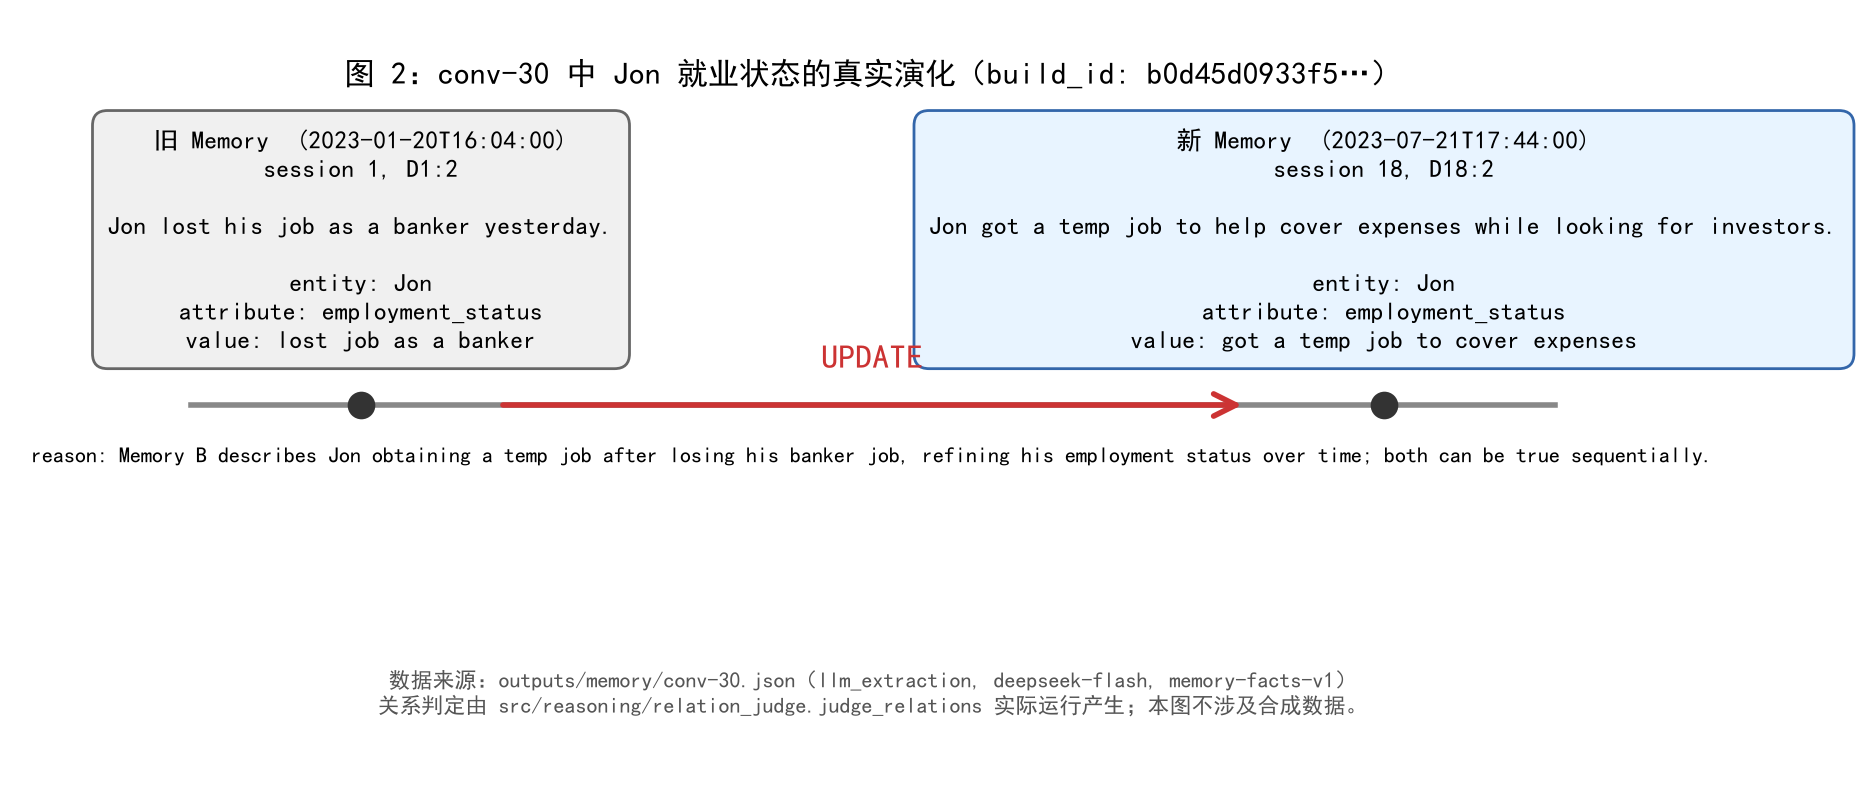
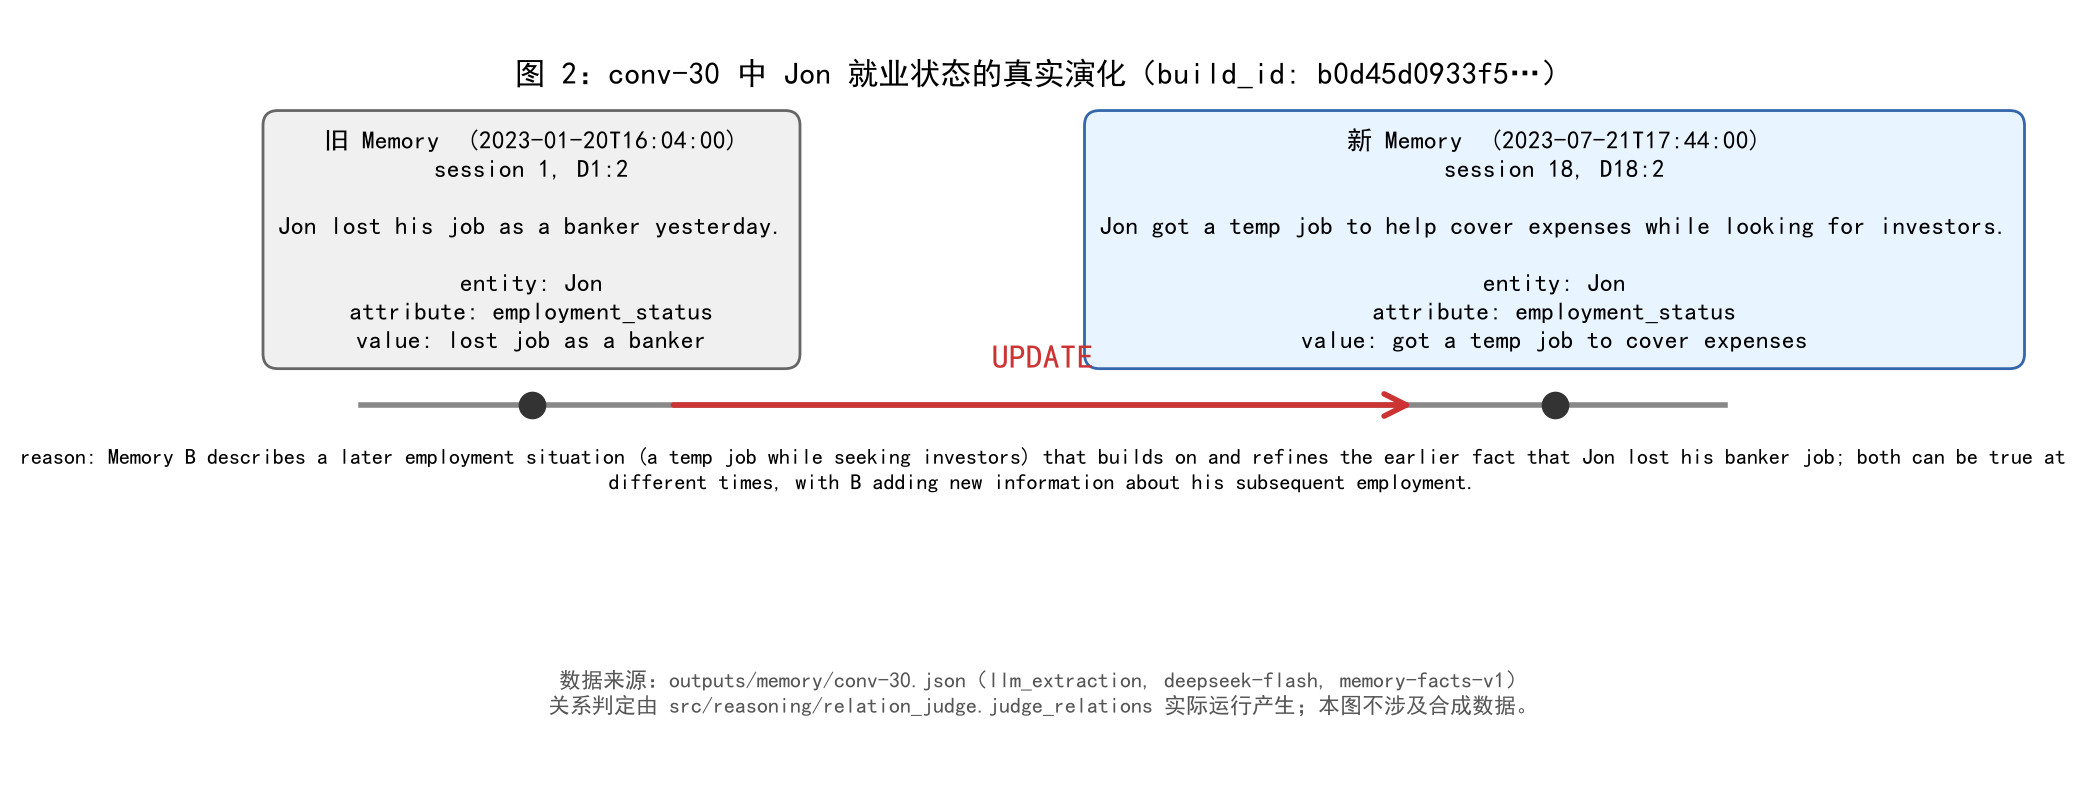
完成图二相对路径修改

diff --git a/docs/final-report.md b/docs/final-report.md
@@ -345,7 +345,7 @@ locomo.json
 
 这一规则对应 `memory-design.md` 中「询问过去状态时，旧事实仍可能是所需答案依据」。
 
-##### ![图2 conv-30 记忆状态演化](fig-02-state-evolution.png)
+![图2 conv-30 记忆状态演化](figures/fig-02-state-evolution.png)
 
 ### 5.4 答案生成
 
